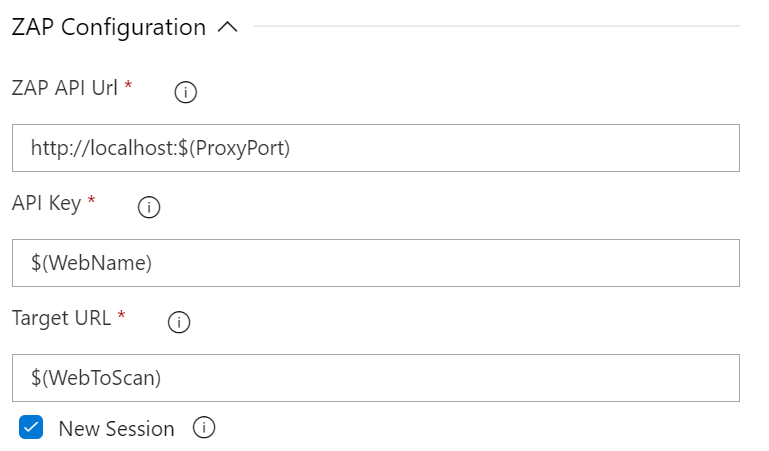
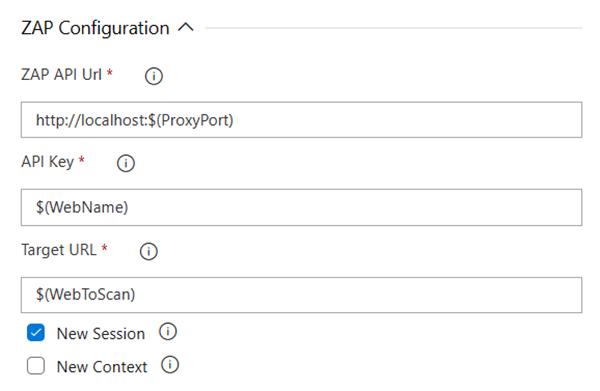
update markdown

diff --git a/README.md b/README.md
@@ -6,6 +6,7 @@
 [![license](https://img.shields.io/github/license/mashape/apistatus.svg?style=flat-square)](https://github.com/pablosguajardo/owasp-zap-scanner/blob/master/LICENSE.md)
 [![Visual Studio Marketplace](https://img.shields.io/badge/Visual%20Studio%20Marketplace-install-brightgreen.svg?style=flat-square)](https://marketplace.visualstudio.com/items?itemName=solucionespsg.owasp-zap-scan-psg)
 
+
 # Owasp Zap Scanner
 
 This project is a Azure DevOps task that allows users to integrate Owasp Zap security analysis into their VSTS pipelines.
@@ -21,21 +22,21 @@ Follow the instructions below to add and configure the Owasp Zap Scanner in your
 ### Add the Owasp Zap Scanner
 Install the Owasp Zap Scanner in your Visual Studio Team Services account and search for the task in the available tasks. The task will appear in the _Test_ section of the task list. Add it to your build/release task.
 
-!Add Owasp Zap Scanner
-
 ![Required Configuration Options](https://raw.githubusercontent.com/pablosguajardo/owasp-zap-scanner/master/screenshots/zap-api-configuration.PNG)
-
 
 ### Required Options
 * **ZAP API Url** : The fully qualified domain name (FQDN) with out the protocol. (Eg. _zap.example.com_)
 * **API Key** : The API key for ZAP. Details about obtaining the API can be found on the Official Documentation
 * **Target URL** : Target URL where the active scan is performed against.
 
+### Optional Options
+* **New Session** : Creates a new session, optionally overwriting existing files. If a relative path is specified it will be resolved against the 'session' directory in ZAP 'home' dir.
+* **New Context** : Create a new Context, optionally.
+
 ## Ajax Spider Scan Options
 This configuration section includes the parameters that need to be sent to perform the active scan against the target.
 
 ![Ajax Spider Scan Options](https://raw.githubusercontent.com/pablosguajardo/owasp-zap-scanner/master/screenshots/ajax-spider-scan-options.png)
-
 
 ### Available Options
 * **Execute Ajax Spider Scan** : Enable to run a spider scan on the target.
@@ -54,6 +55,18 @@ This configuration section includes the parameters that need to be sent to perfo
 * **Subtree Only** : _(Optional)_ Enable to restrict the spider under the target url subtree.
 * **Context Name** : _(Optional)_ The name for any defined context. If the value does not match a defined context then an error will occur.
 * **Max Children** : _(Optional)_ Set to limit the number of children scanned.
+
+## Open Api Scan Options
+This configuration section includes the parameters that need to be sent to perform the active scan against the target.
+
+![Open Api Scan Options](https://raw.githubusercontent.com/pablosguajardo/owasp-zap-scanner/master/screenshots/open-api-scan-options.png)
+
+### Available Options
+* **Execute Open Api Scan** : Enable to run a Open Api scan on the target.
+* **Url** : Enter data in URL or File. Not both. Url: The URL locating the OpenAPI definition. The url must exist and be accessible from the server running ZAP. If not, it will give an error. https://www.zaproxy.org/docs/desktop/addons/openapi-support
+* **File** : Enter data in File or URL. Not both. The file that contains the OpenAPI definition. https://www.zaproxy.org/docs/desktop/addons/openapi-support
+* **HostOverride/Target** : _(Optional)_ HostOverride: The Target URL (called hostOverride for historical reasons) to override the server URL present in the definition. Target: The Target URL to override the server URL present in the definition. https://www.zaproxy.org/docs/desktop/addons/openapi-support
+* **Context ID** : _(Optional)_ Scan context identifier. https://www.zaproxy.org/docs/desktop/addons/openapi-support
 
 ## Active Scan Options
 This configuration section includes the parameters that need to be sent to perform the active scan against the target.
@@ -93,6 +106,13 @@ This configuration section includes the parameters that need to be sent to perfo
 * **Report Filename** : Name of the report file, without the extension. Extension is determined by the _**Report Type**_. Eg. _OWASP-ZAP-Report-2017-00-00_.
 
 
+## Additional
+
+On Windows servers you can complement the use of this extension with:
+
+https://marketplace.visualstudio.com/items?itemName=solucionespsg.OwaspZapOnPremiseStartStop
+
+With this extension you will be able to remotely start a new Owazap session on a new port, scan the URL and then stop the started session.
 
 # Contributing to Owasp Zap Scanner for Azure DevOps
 

diff --git a/overview.md b/overview.md
@@ -20,11 +20,14 @@ Install the Owasp Zap Scanner in your Visual Studio Team Services account and se
 * **API Key** : The API key for ZAP. Details about obtaining the API can be found on the Official Documentation
 * **Target URL** : Target URL where the active scan is performed against.
 
+### Optional Options
+* **New Session** : Creates a new session, optionally overwriting existing files. If a relative path is specified it will be resolved against the 'session' directory in ZAP 'home' dir.
+* **New Context** : Create a new Context, optionally.
+
 ## Ajax Spider Scan Options
 This configuration section includes the parameters that need to be sent to perform the active scan against the target.
 
 ![Ajax Spider Scan Options](https://raw.githubusercontent.com/pablosguajardo/owasp-zap-scanner/master/screenshots/ajax-spider-scan-options.png)
-
 
 ### Available Options
 * **Execute Ajax Spider Scan** : Enable to run a spider scan on the target.
@@ -43,6 +46,18 @@ This configuration section includes the parameters that need to be sent to perfo
 * **Subtree Only** : _(Optional)_ Enable to restrict the spider under the target url subtree.
 * **Context Name** : _(Optional)_ The name for any defined context. If the value does not match a defined context then an error will occur.
 * **Max Children** : _(Optional)_ Set to limit the number of children scanned.
+
+## Open Api Scan Options
+This configuration section includes the parameters that need to be sent to perform the active scan against the target.
+
+![Open Api Scan Options](https://raw.githubusercontent.com/pablosguajardo/owasp-zap-scanner/master/screenshots/open-api-scan-options.png)
+
+### Available Options
+* **Execute Open Api Scan** : Enable to run a Open Api scan on the target.
+* **Url** : Enter data in URL or File. Not both. Url: The URL locating the OpenAPI definition. The url must exist and be accessible from the server running ZAP. If not, it will give an error. https://www.zaproxy.org/docs/desktop/addons/openapi-support
+* **File** : Enter data in File or URL. Not both. The file that contains the OpenAPI definition. https://www.zaproxy.org/docs/desktop/addons/openapi-support
+* **HostOverride/Target** : _(Optional)_ HostOverride: The Target URL (called hostOverride for historical reasons) to override the server URL present in the definition. Target: The Target URL to override the server URL present in the definition. https://www.zaproxy.org/docs/desktop/addons/openapi-support
+* **Context ID** : _(Optional)_ Scan context identifier. https://www.zaproxy.org/docs/desktop/addons/openapi-support
 
 ## Active Scan Options
 This configuration section includes the parameters that need to be sent to perform the active scan against the target.
